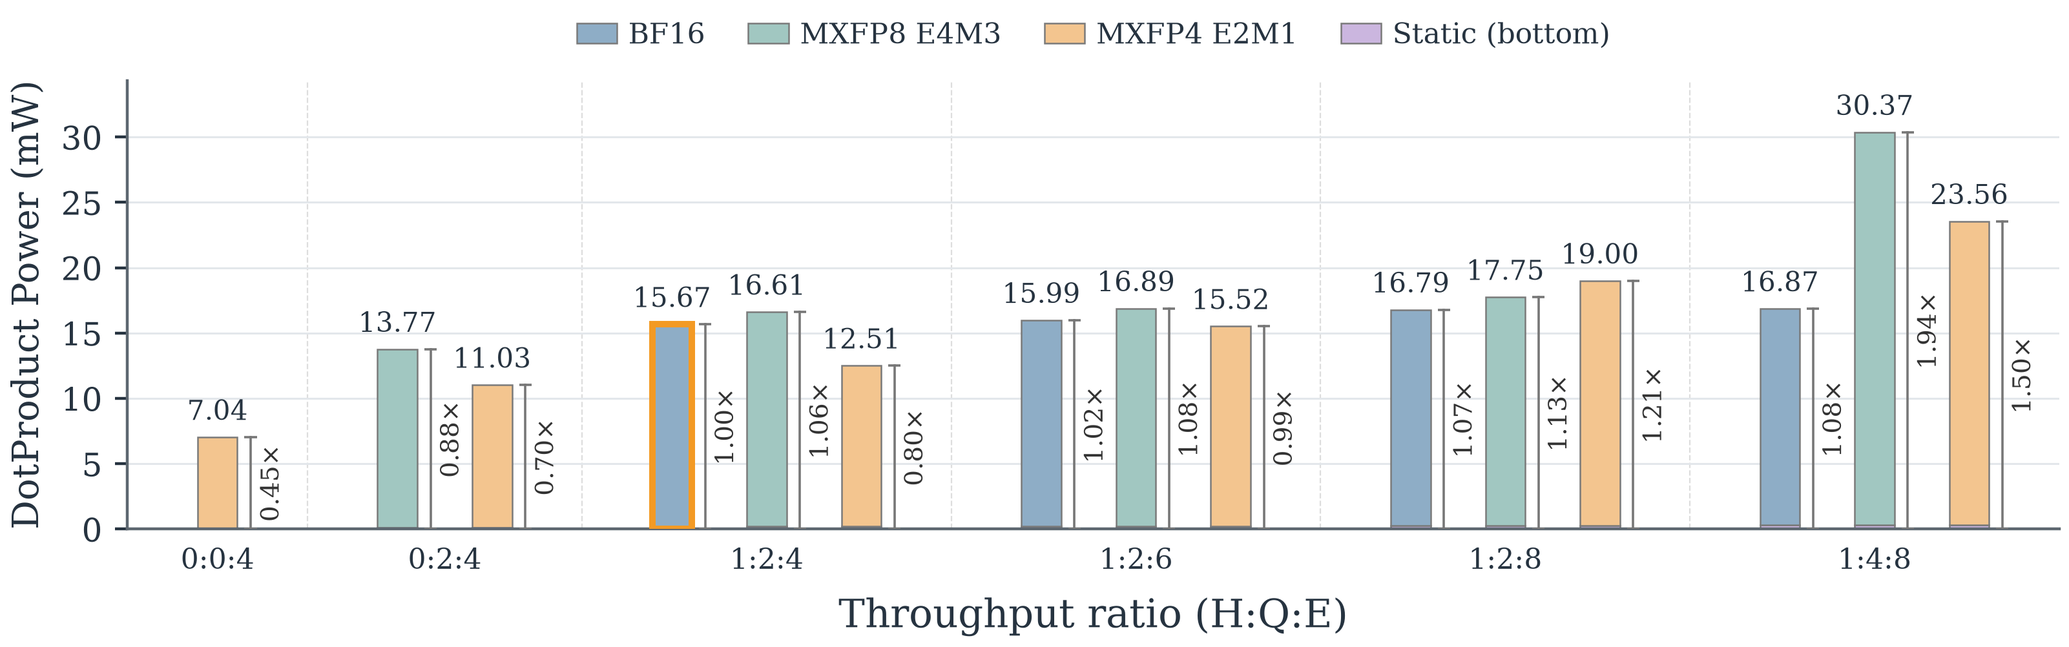
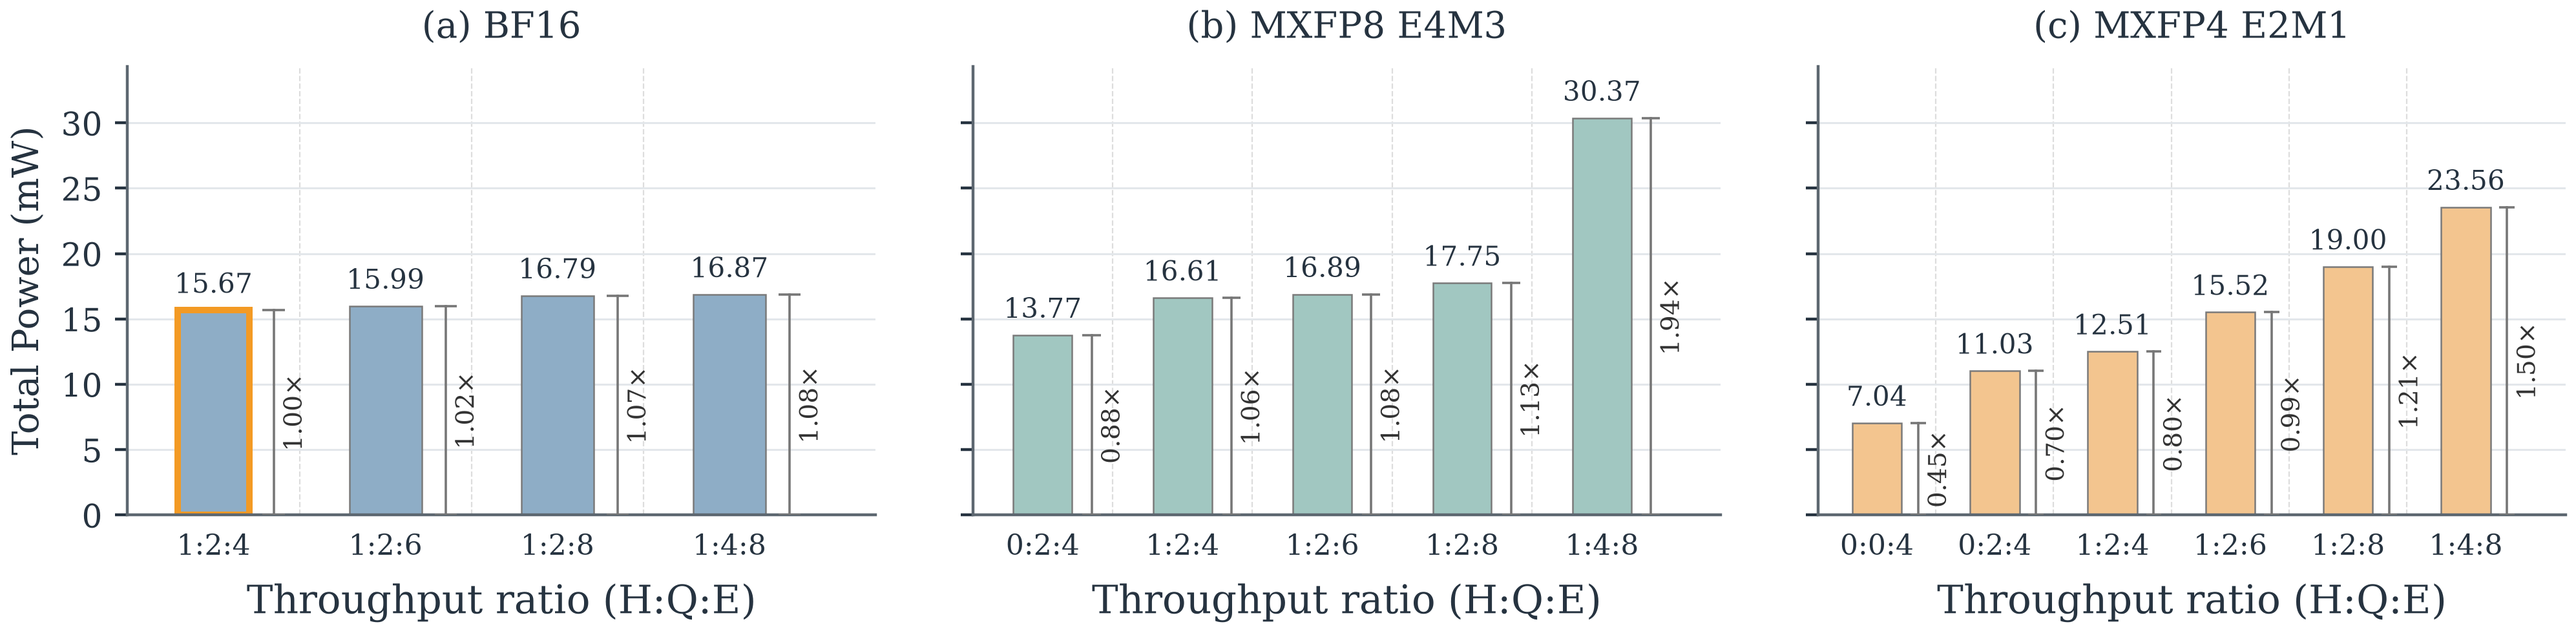
paper: plot total DP power in three horizontal precision panels

diff --git a/paper/data/DP_area_power/plot_latest6_area_power.py b/paper/data/DP_area_power/plot_latest6_area_power.py
@@ -9,7 +9,7 @@ import platform
 from pathlib import Path
 
 from plot_area_power import (
-    PAPER, STATIC_COLOR, Patch, MultipleLocator, matplotlib, np, plt,
+    PAPER, MultipleLocator, matplotlib, np, plt,
     read_csv, save_figure,
 )
 
@@ -162,8 +162,8 @@ def bracket(ax, x, height, ratio):
                 fontsize=7, color="#333333", zorder=4)
 
 
-def style_axes(ax, centers, maximum, ylabel, separators):
-    ax.set_xticks(centers, [c[1] for c in CONFIGS])
+def style_axes(ax, centers, maximum, ylabel, separators, labels=None):
+    ax.set_xticks(centers, labels if labels is not None else [c[1] for c in CONFIGS])
     ax.tick_params(axis="x", length=0, pad=5, labelsize=8)
     ax.set_xlabel("Throughput ratio (H:Q:E)", labelpad=6)
     ax.set_ylabel(ylabel, fontsize=10)
@@ -200,33 +200,29 @@ def draw(areas, groups, output, dpi):
     ax.set_xlim(-.5, 5.85)
     save_figure(fig, output, "latest6_area", dpi)
 
-    widths = np.array([len(g)+.9 for g in groups])
-    edges = np.r_[0, np.cumsum(widths)]
-    centers = (edges[:-1]+edges[1:])/2
-    fig, ax = plt.subplots(figsize=(8.4, 2.8))
-    fig.subplots_adjust(left=.10, right=.99, bottom=.24, top=.86)
-    for center, group in zip(centers, groups):
-        for j, row in enumerate(group):
-            x = center+j-(len(group)-1)/2
-            static, dynamic, total = (float(row[k+"_mw"]) for k in ("static", "dynamic", "total"))
-            ax.bar(x, static, width=.42, color=STATIC_COLOR, edgecolor="#7A7A7A", linewidth=.45, zorder=2)
-            ax.bar(x, dynamic, bottom=static, width=.42, color=COLORS[row["format"]],
-                   edgecolor="#7A7A7A", linewidth=.45, zorder=2)
-            if row["top"] == "dp_top" and row["format"] == "bf16":
-                ax.bar(x, total, width=.42, fill=False, edgecolor="#F39A24", linewidth=1.8, zorder=3)
-            ax.annotate(f"{total:.2f}", (x, total), xytext=(0, 3), textcoords="offset points",
-                        ha="center", va="bottom", fontsize=7.5)
+    fig, axes = plt.subplots(1, 3, figsize=(10.2, 2.8), sharey=True)
+    fig.subplots_adjust(left=.065, right=.99, bottom=.24, top=.86, wspace=.13)
+    maximum = max(float(r["total_mw"]) for g in groups for r in g)
+    ratios = {top: ratio for top, ratio, _ in CONFIGS}
+    for index, (ax, fmt, label) in enumerate(zip(axes, FORMATS, LABELS)):
+        rows = [r for group in groups for r in group if r["format"] == fmt]
+        centers = np.arange(len(rows))
+        totals = [float(r["total_mw"]) for r in rows]
+        baseline = [r["top"] == "dp_top" and fmt == "bf16" for r in rows]
+        bars = ax.bar(centers, totals, width=.42, color=COLORS[fmt],
+                      edgecolor=["#F39A24" if b else "#7A7A7A" for b in baseline],
+                      linewidth=[1.8 if b else .45 for b in baseline], zorder=2)
+        ax.bar_label(bars, labels=[f"{v:.2f}" for v in totals], padding=3, fontsize=7.5)
+        for x, total in zip(centers, totals):
             bracket(ax, x, total, total/power_ref)
-    style_axes(ax, centers, max(float(r["total_mw"]) for g in groups for r in g),
-               "DotProduct Power (mW)", edges[1:-1])
-    ax.set_xlim(edges[0], edges[-1])
-    handles = [Patch(facecolor=COLORS[fmt], edgecolor="#7A7A7A", linewidth=.45, label=label)
-               for fmt, label in zip(FORMATS, LABELS)]
-    handles.append(Patch(facecolor=STATIC_COLOR, edgecolor="#7A7A7A", linewidth=.45, label="Static (bottom)"))
-    ax.legend(handles=handles, loc="lower center", bbox_to_anchor=(.5, 1.01), ncols=4,
-              frameon=False, fontsize=8, columnspacing=1.5, handletextpad=.4, handlelength=1.4)
+        style_axes(ax, centers, maximum, "Total Power (mW)" if index == 0 else "",
+                   np.arange(.5, len(rows)-1, 1), [ratios[r["top"]] for r in rows])
+        ax.set_xlim(-.5, len(rows)-.15)
+        ax.set_title(f"({chr(ord('a')+index)}) {label}", fontsize=10, pad=8)
     save_figure(fig, output, "latest6_power", dpi)
     return dict(area_bars=6, power_bars=15, formats=list(FORMATS),
+                power_layout="1 row, 3 panels", power_panels=["(a) BF16", "(b) MXFP8 E4M3", "(c) MXFP4 E2M1"],
+                power_panel_bars=[4, 5, 6], power_quantity="tool-reported total_mw", power_stacked=False,
                 area_reference_top="dp_top", area_reference_um2=area_ref,
                 power_reference_top="dp_top", power_reference_format="bf16",
                 power_reference_total_mw=power_ref, dpi=dpi,

diff --git a/paper/data/DP_area_power/README.md b/paper/data/DP_area_power/README.md
@@ -18,7 +18,8 @@
 | 1:4:8 | T8H16Q64E128 opt | dp_top_t8h16q64e128_opt |
 
 配比为 H/Q/E 原生 MAC/cycle 除以 16；共享单元的不同模式不能同时相加。
-功耗图使用实测 **BF16、MXFP8 E4M3、MXFP4 E2M1**，未测或不支持的组合不填零。
+功耗图横向排列三个子图：**(a) BF16、(b) MXFP8 E4M3、(c) MXFP4 E2M1**，分别为 4、5、6 根柱。
+每根柱只展示工具报告的 **total power**，三个子图共用纵轴范围；未测或不支持的组合不填零。
 面积倍率以 `dp_top` 为基准；所有功耗倍率统一以 `dp_top / BF16` 为基准。
 总功耗保留工具原值，动态=Internal+Switching，静态=Leakage；当前分项和与总值最大差约 0.00030 mW，校验容差为 0.0005 mW，绘图不改写测量值。
 
@@ -33,7 +34,7 @@ python3.11 paper/data/DP_area_power/plot_latest6_area_power.py
 
 输出为 `paper/figures/latest6_area.png`、`latest6_power.png`（400 dpi），
 同目录 `latest6_plot_manifest.json` 记录数据/脚本/图片 hash、基准和柱数。
-支持 `--output-dir` 与 `--dpi`；脚本沿用 `plot_area_power.py` 的浅色柱、紫色静态底部、橙色基准框、数值标签及竖直倍率括号。
+支持 `--output-dir` 与 `--dpi`；脚本沿用 `plot_area_power.py` 的浅色柱、橙色基准框、数值标签及竖直倍率括号，功耗使用总值单柱。
 
 测量条件：N12 TT / 0.7V / 85°C、1GHz、L8/II=1、ICG 开启；五种共享架构采用精度寄存器门控，E64 保持原设计。
 Qwen3-8B 第 0 层 MLP down_proj 同源 1024 笔输入，发射索引 256..767 的 512ns 窗口；VCS 原生门级 SAIF + Power Compiler。
